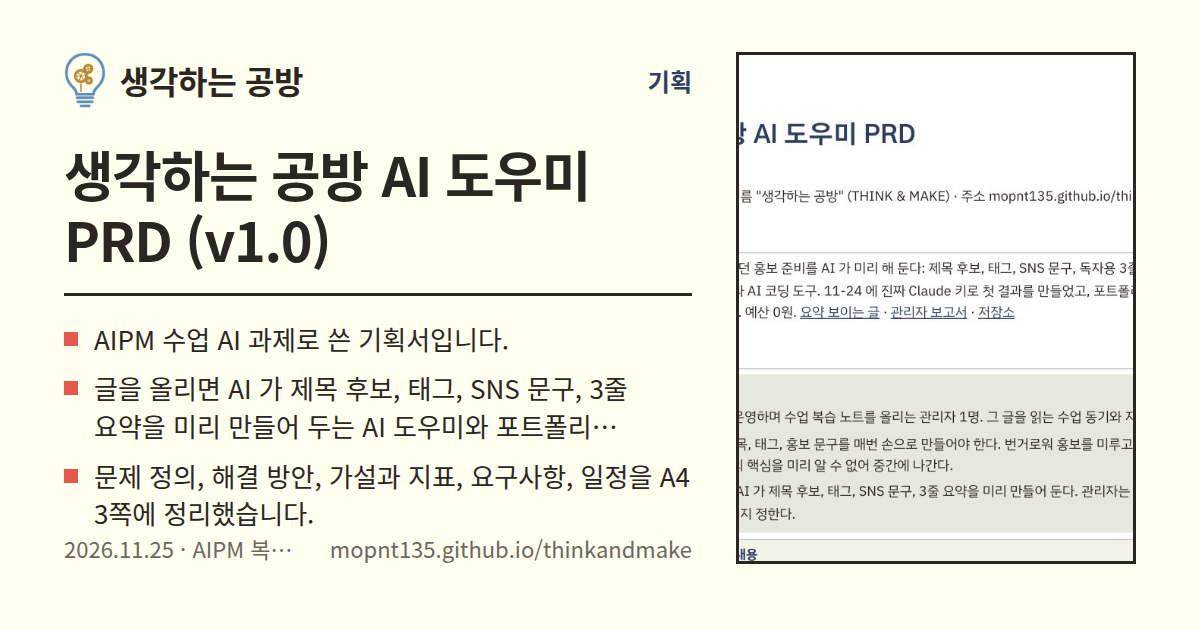
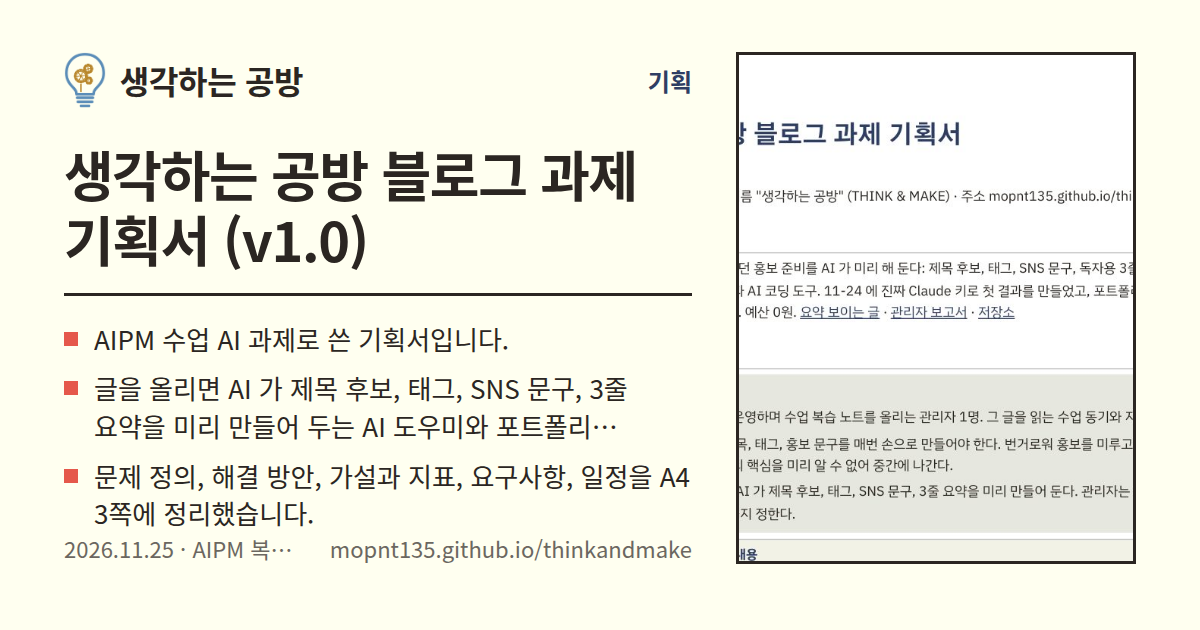
검색·공유 페이지 자동 갱신

Changed region(s): [[0.0308, 0.3317, 0.3083, 0.4222], [0.3083, 0.2413, 0.555, 0.3317], [0.6167, 0.181, 0.8017, 0.2413]]

diff --git a/p/plan-1/index.html b/p/plan-1/index.html
@@ -6,27 +6,27 @@
 <link rel="icon" href="../../assets/favicon.ico" sizes="16x16 32x32 48x48">
 <link rel="icon" type="image/png" href="../../assets/favicon-32.png" sizes="32x32">
 <link rel="apple-touch-icon" href="../../assets/apple-touch-icon.png">
-<title>생각하는 공방 AI 도우미 PRD (v1.0) · 생각하는 공방</title>
+<title>생각하는 공방 블로그 과제 기획서 (v1.0) · 생각하는 공방</title>
 <meta name="description" content="AIPM 수업 AI 과제로 쓴 기획서입니다. 글을 올리면 AI 가 제목 후보, 태그, SNS 문구, 3줄 요약을 미리 만들어 두는 AI 도우미와 포트폴리오 안내 챗봇을 다룹니다. 문제 정의, 해결 방안, 가설과 지표…">
 <link rel="canonical" href="https://mopnt135.github.io/thinkandmake/p/plan-1/">
 <meta property="og:type" content="article">
 <meta property="og:site_name" content="생각하는 공방">
 <meta property="og:locale" content="ko_KR">
-<meta property="og:title" content="생각하는 공방 AI 도우미 PRD (v1.0)">
+<meta property="og:title" content="생각하는 공방 블로그 과제 기획서 (v1.0)">
 <meta property="og:description" content="AIPM 수업 AI 과제로 쓴 기획서입니다. 글을 올리면 AI 가 제목 후보, 태그, SNS 문구, 3줄 요약을 미리 만들어 두는 AI 도우미와 포트폴리오 안내 챗봇을 다룹니다. 문제 정의, 해결 방안, 가설과 지표…">
 <meta property="og:url" content="https://mopnt135.github.io/thinkandmake/p/plan-1/">
 <meta property="og:image" content="https://mopnt135.github.io/thinkandmake/p/plan-1/og.png?v=mwvluoqoc9">
 <meta property="og:image:width" content="1200">
 <meta property="og:image:height" content="630">
-<meta property="og:image:alt" content="생각하는 공방 AI 도우미 PRD (v1.0)">
+<meta property="og:image:alt" content="생각하는 공방 블로그 과제 기획서 (v1.0)">
 <meta property="article:published_time" content="2026-11-25T13:10:00+09:00">
 <meta property="article:modified_time" content="2026-11-25T13:10:00+09:00">
 <meta property="article:section" content="기획">
 <meta name="twitter:card" content="summary_large_image">
-<meta name="twitter:title" content="생각하는 공방 AI 도우미 PRD (v1.0)">
+<meta name="twitter:title" content="생각하는 공방 블로그 과제 기획서 (v1.0)">
 <meta name="twitter:description" content="AIPM 수업 AI 과제로 쓴 기획서입니다. 글을 올리면 AI 가 제목 후보, 태그, SNS 문구, 3줄 요약을 미리 만들어 두는 AI 도우미와 포트폴리오 안내 챗봇을 다룹니다. 문제 정의, 해결 방안, 가설과 지표…">
 <meta name="twitter:image" content="https://mopnt135.github.io/thinkandmake/p/plan-1/og.png?v=mwvluoqoc9">
-<script type="application/ld+json">{"@context":"https://schema.org","@type":"BlogPosting","headline":"생각하는 공방 AI 도우미 PRD (v1.0)","description":"AIPM 수업 AI 과제로 쓴 기획서입니다. 글을 올리면 AI 가 제목 후보, 태그, SNS 문구, 3줄 요약을 미리 만들어 두는 AI 도우미와 포트폴리오 안내 챗봇을 다룹니다. 문제 정의, 해결 방안, 가설과 지표…","image":"https://mopnt135.github.io/thinkandmake/p/plan-1/og.png?v=mwvluoqoc9","url":"https://mopnt135.github.io/thinkandmake/p/plan-1/","mainEntityOfPage":"https://mopnt135.github.io/thinkandmake/p/plan-1/","datePublished":"2026-11-25T13:10:00+09:00","dateModified":"2026-11-25T13:10:00+09:00","articleSection":"기획","inLanguage":"ko-KR","author":{"@type":"Organization","name":"생각하는 공방"},"publisher":{"@type":"Organization","name":"생각하는 공방"}}</script>
+<script type="application/ld+json">{"@context":"https://schema.org","@type":"BlogPosting","headline":"생각하는 공방 블로그 과제 기획서 (v1.0)","description":"AIPM 수업 AI 과제로 쓴 기획서입니다. 글을 올리면 AI 가 제목 후보, 태그, SNS 문구, 3줄 요약을 미리 만들어 두는 AI 도우미와 포트폴리오 안내 챗봇을 다룹니다. 문제 정의, 해결 방안, 가설과 지표…","image":"https://mopnt135.github.io/thinkandmake/p/plan-1/og.png?v=mwvluoqoc9","url":"https://mopnt135.github.io/thinkandmake/p/plan-1/","mainEntityOfPage":"https://mopnt135.github.io/thinkandmake/p/plan-1/","datePublished":"2026-11-25T13:10:00+09:00","dateModified":"2026-11-25T13:10:00+09:00","articleSection":"기획","inLanguage":"ko-KR","author":{"@type":"Organization","name":"생각하는 공방"},"publisher":{"@type":"Organization","name":"생각하는 공방"}}</script>
 <link rel="preconnect" href="https://fonts.googleapis.com">
 <link rel="stylesheet" href="https://fonts.googleapis.com/css2?family=Gothic+A1:wght@700;900&family=IBM+Plex+Sans+KR:wght@400;700&display=swap">
 <style>
@@ -64,7 +64,7 @@ a:focus-visible{outline:3px solid var(--orange);outline-offset:3px}
     if (ls("samsaekpen-ga-optout") === "1") { window["ga-disable-G-5HJBBKMVE3"] = true; return; }
     var s = document.createElement("script"); s.async = true; s.src = "https://www.googletagmanager.com/gtag/js?id=G-5HJBBKMVE3"; document.head.appendChild(s);
     window.dataLayer = window.dataLayer || []; window.gtag = function () { dataLayer.push(arguments); };
-    var post = {"post_id":"plan-1","post_title":"생각하는 공방 AI 도우미 PRD (v1.0)","post_category":"기획","is_notice":false,"attachment_count":0,"view_source":"static","has_ai_summary":false};
+    var post = {"post_id":"plan-1","post_title":"생각하는 공방 블로그 과제 기획서 (v1.0)","post_category":"기획","is_notice":false,"attachment_count":0,"view_source":"static","has_ai_summary":false};
     gtag("js", new Date());
     if (ls("samsaekpen-ga-internal") === "1") gtag("set", { traffic_type: "internal" });
     gtag("config", "G-5HJBBKMVE3", { page_type: post.is_notice ? "notice" : "post", view_source: "static" });
@@ -77,16 +77,16 @@ a:focus-visible{outline:3px solid var(--orange);outline-offset:3px}
 <main class="wrap">
 <article>
   <div class="cat">기획</div>
-  <h1>생각하는 공방 AI 도우미 PRD (v1.0)</h1>
+  <h1>생각하는 공방 블로그 과제 기획서 (v1.0)</h1>
   <div class="meta">2026.11.25 (KST)</div>
   
-  <img class="fig" src="../../assets/posts/plan-1.jpg" alt="AI 도우미 PRD 첫 쪽">
+  <img class="fig" src="../../assets/posts/plan-1.jpg" alt="블로그 과제 기획서 첫 쪽">
   <div class="body">AIPM 수업 AI 과제로 쓴 기획서입니다.
 글을 올리면 AI 가 제목 후보, 태그, SNS 문구, 3줄 요약을 미리 만들어 두는 AI 도우미와 포트폴리오 안내 챗봇을 다룹니다.
 문제 정의, 해결 방안, 가설과 지표, 요구사항, 일정을 A4 3쪽에 정리했습니다.
 아래 버튼으로 PDF 를 내려받을 수 있습니다.</div>
   
-  <p class="file"><a class="btn main" href="../../assets/files/PRD-thinkandmake-v1.0.pdf" download="생각하는공방_AI도우미_PRD_v1.0.pdf">PDF 내려받기</a> <span>PDF · A4 3쪽 · 0.5MB</span></p>
+  <p class="file"><a class="btn main" href="../../assets/files/PRD-thinkandmake-v1.0.pdf" download="생각하는공방_블로그과제기획서_v1.0.pdf">PDF 내려받기</a> <span>PDF · A4 3쪽 · 0.5MB</span></p>
   <div class="cta">
     <a class="btn main" href="../../#post-plan-1">블로그에서 보고 댓글 달기</a>
     <a class="btn" href="../../">생각하는 공방 첫 화면</a>
